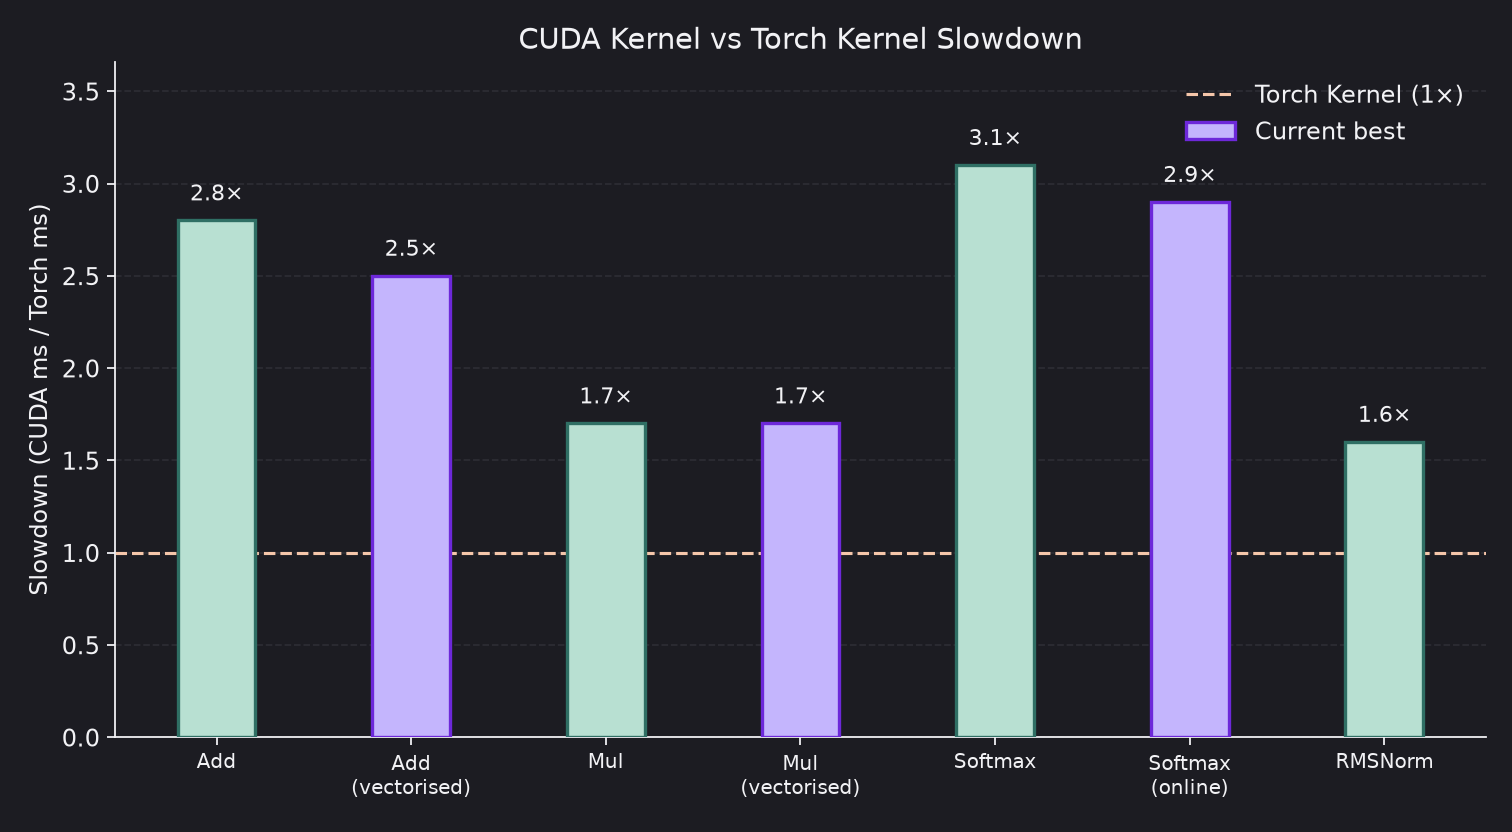
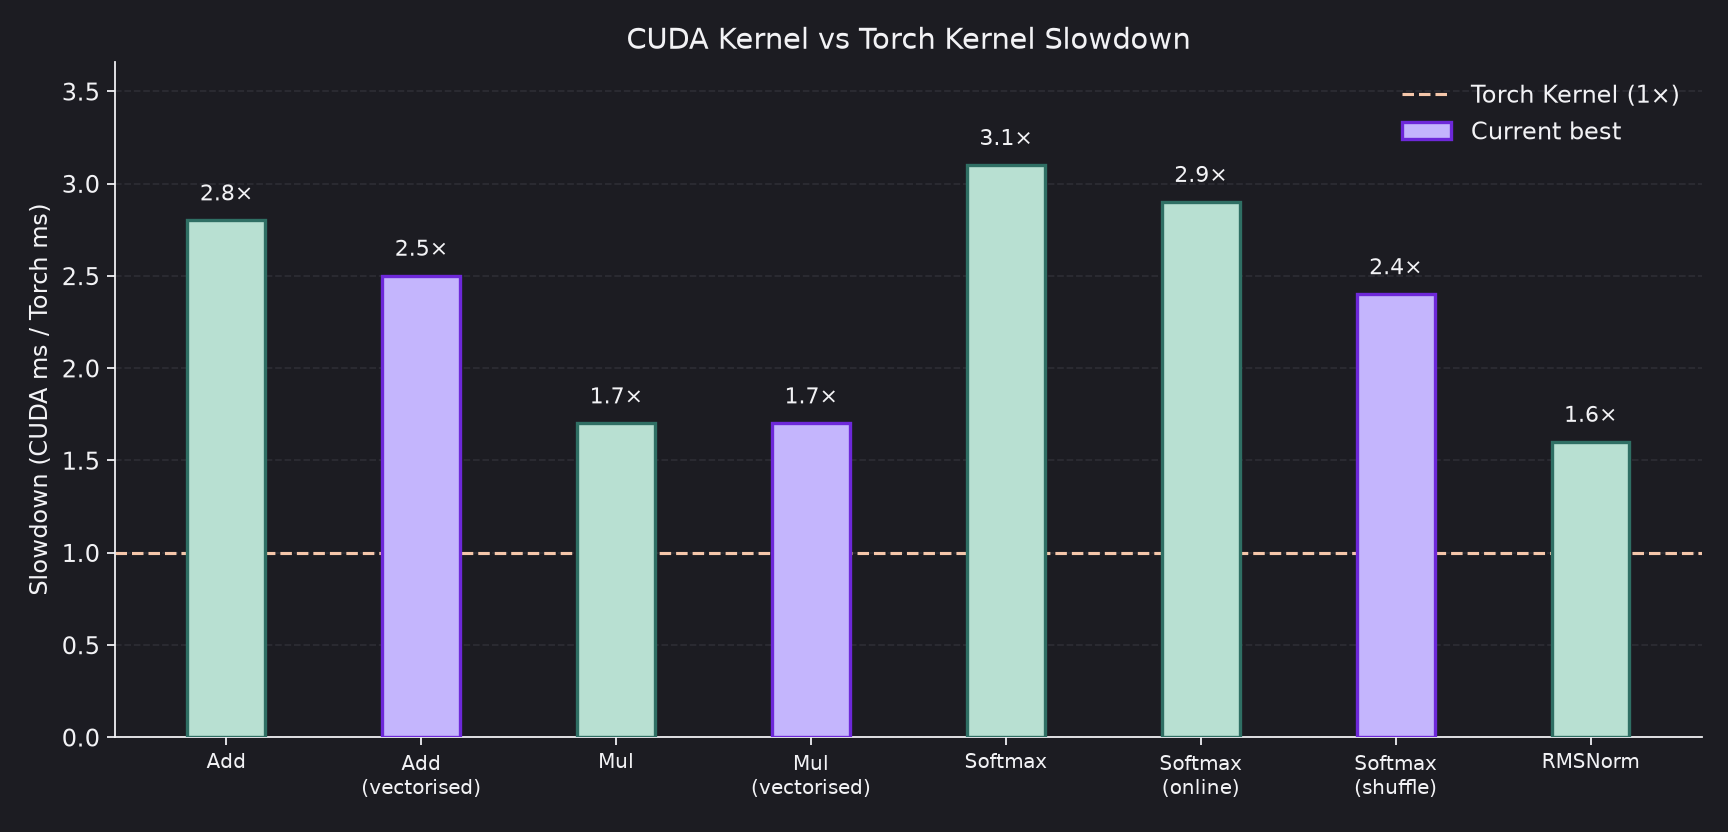
shuffle added to the softmax

diff --git a/profiling/plot_layer0.py b/profiling/plot_layer0.py
@@ -46,6 +46,7 @@ LABELS = {
     "multi_vectorize": "Mul\n(vectorised)",
     "softmax": "Softmax",
     "softmax_online": "Softmax\n(online)",
+    "softmax_shuffle": "Softmax\n(shuffle)",
     "rmsnorm": "RMSNorm",
 }
 

diff --git a/docker/changes.md b/docker/changes.md
@@ -32,6 +32,8 @@ v0.0.10 - Testing vectorised loads on elementwise kernels.
 
 v0.0.11 - Testing online softmax (new test for casual mask added).
 
+v0.0.12 - Testing shuffle reduction.
+
 ### CUDA Smoke Tests
 
 v0.0.1 - First smoke test for elementwise addition and multiplication.
@@ -77,6 +79,8 @@ v0.0.12 - Different BK on the matmul.
 v0.0.13 - Elementwise vectorised loads. 
 
 v0.0.14 - Online softmax
+
+v0.0.15 - Shuffle reduction.
 
 ### Profiling Layer 1
 

diff --git a/profiling/results/profiling_layer_0.md b/profiling/results/profiling_layer_0.md
@@ -250,6 +250,18 @@ Torch:    760.99 GB/s
 
 ```
 
+- Softmax Profile (shuffle reduce):
+
+```python
+kernel:   softmax  (64, 256, 256)
+CUDA:     0.102 ± 0.016 ms
+Torch:    0.043 ± 0.012 ms
+slowdown: 2.4x
+CUDA:     329.13 GB/s
+Torch:    780.28 GB/s
+
+```
+
 - RMSNorm Profile:
 
 ```python
